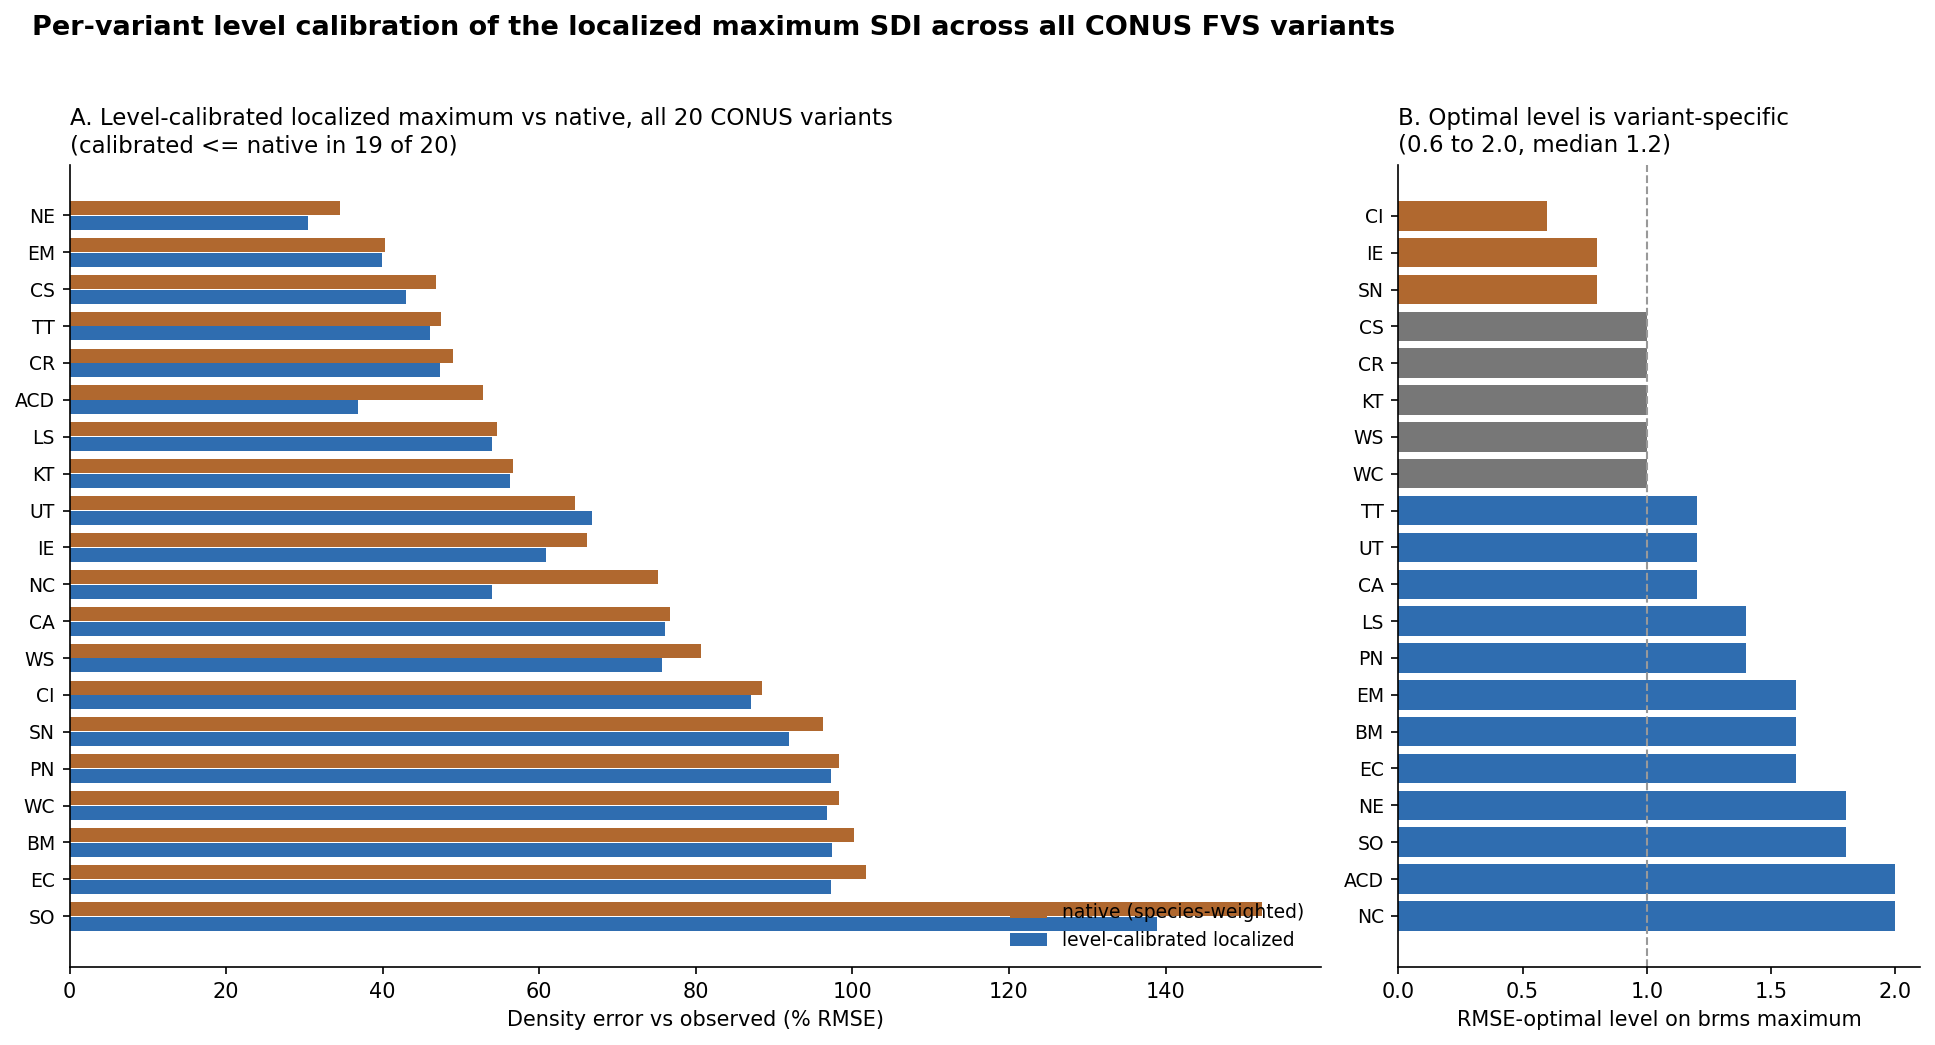
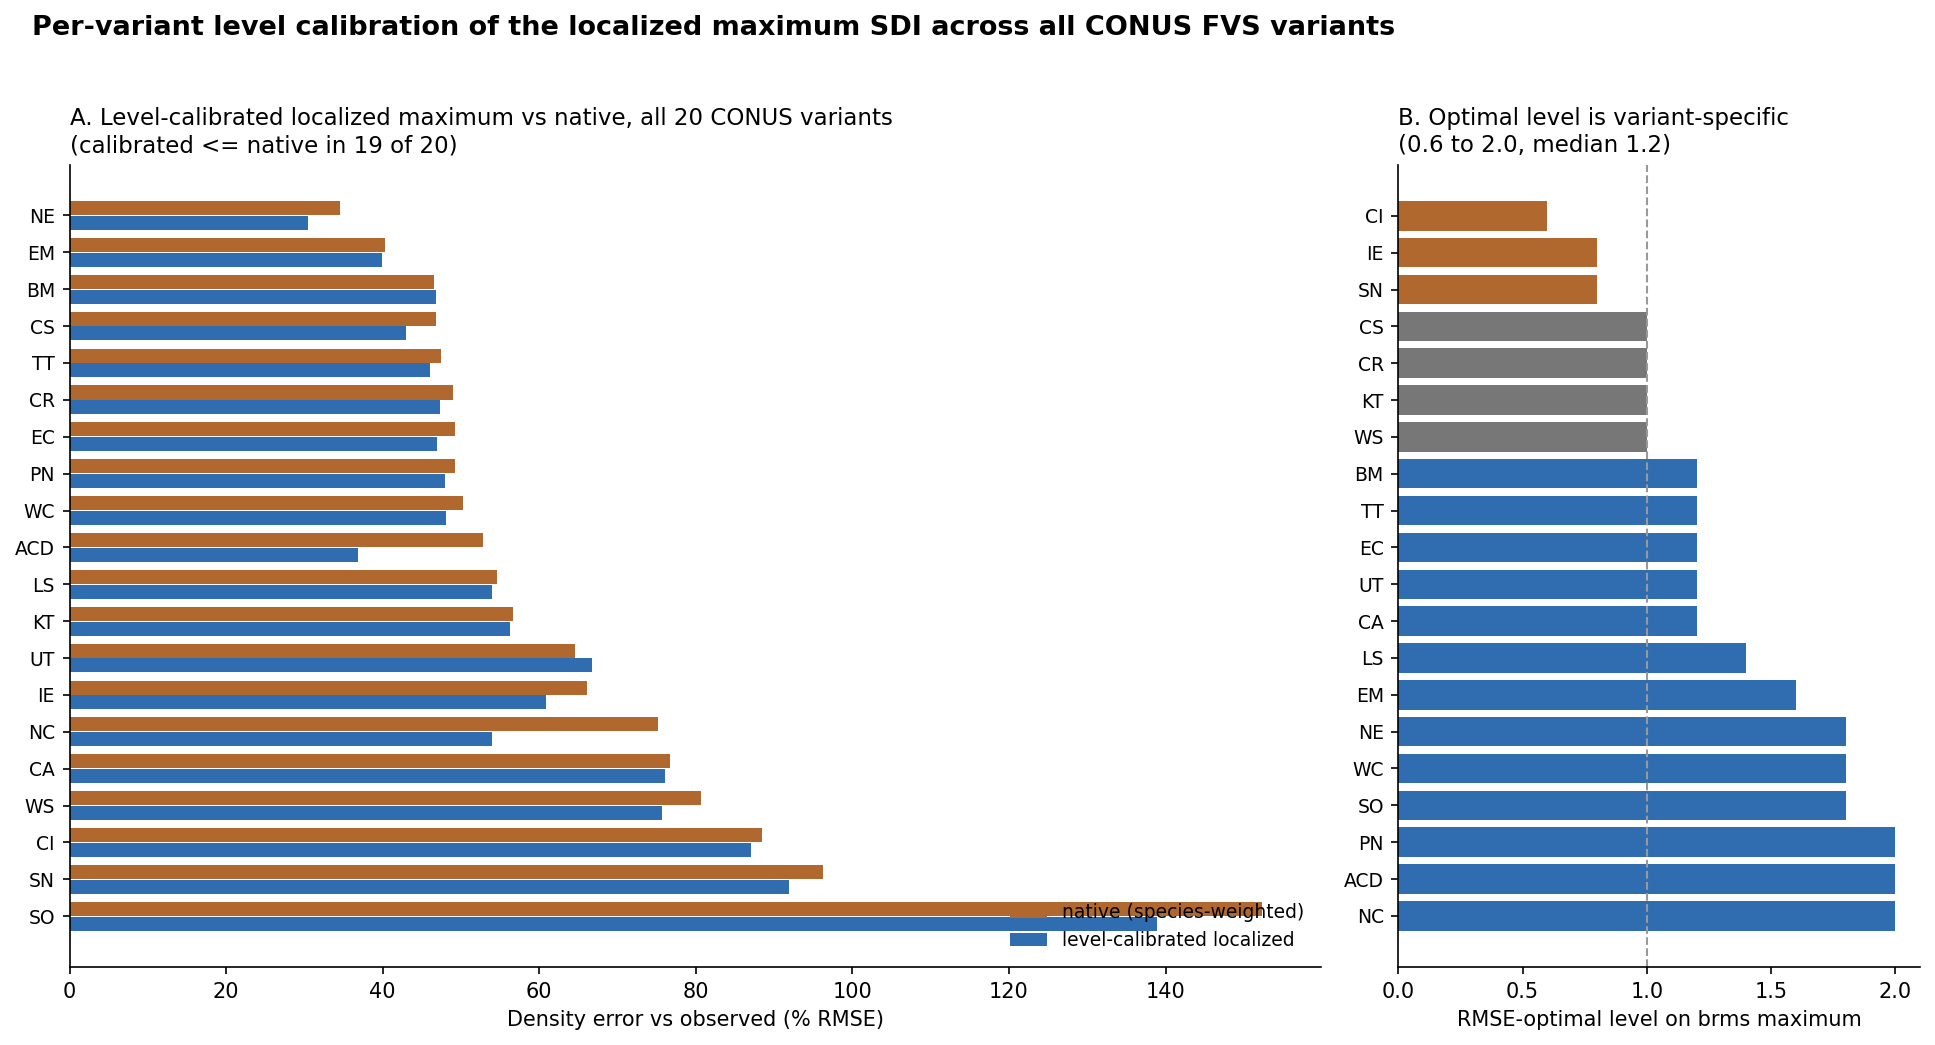
Refine all-variant analysis: clean OR/WA samples, level-vs-bias model, UT diagnosis
Fixed hardcoded sample seed: OR/WA variants (BM/EC/PN/WC) had a pathological draw
inflating RMSE to ~98%; clean multi-sample values are ~47-50% and near-neutral. Conclusion
holds: calibrated <= native in 19/20, level 0.6-2.0 (median 1.2). Added level-vs-native-bias
model (r=-0.35: the level compensates for native mortality) and the Utah exception (weakest
self-thinning signal, drought-governed). Updated report, deck, doc, figures.

diff --git a/calibration/sdimax/var_scale_diag.py b/calibration/sdimax/var_scale_diag.py
@@ -30,7 +30,7 @@ key2sdi=dict(zip(b.ID.astype(str),b["SDImax.mean"]))
 rem=plot.dropna(subset=["PREV_PLT_CN"]).copy(); rem["PREV_PLT_CN"]=rem.PREV_PLT_CN.astype("int64")
 rem["interval"]=rem.apply(lambda r:r.MEASYEAR-yr.get(r.PREV_PLT_CN,np.nan),axis=1)
 rem=rem[(rem.interval>=5)&(rem.interval<=15)]; rem=rem[rem.plot_key.map(lambda k:k in key2sdi)]
-rem=rem.sample(n=min(110,len(rem)),random_state=5)
+rem=rem.sample(n=min(int(_os.environ.get("NSAMP","110")),len(rem)),random_state=int(_os.environ.get("SEED","5")))
 tr1=G.load_fia_trees(VAR,rem.PREV_PLT_CN.tolist(),Path(FIA)); tr2=G.load_fia_trees(VAR,rem.CN.astype("int64").tolist(),Path(FIA))
 def metr(df):
     d=df[(df.DIA>0)&(df.TPA_UNADJ>0)]

diff --git a/calibration/sdimax/CONUS_MAXSDI_TECHNICAL_REPORT.md b/calibration/sdimax/CONUS_MAXSDI_TECHNICAL_REPORT.md
@@ -270,6 +270,32 @@ variants. Left: native versus level-calibrated density error; calibrated is at o
 20. Right: the RMSE-optimal level is variant-specific, from 0.6 to 2.0 (median 1.2), most variants
 needing the brms maximum scaled up.*
 
+**The required level is partly predictable from each variant's native bias, which is the consistency
+story made quantitative.** The optimal level tracks how much a variant's native configuration over- or
+under-thins (correlation about -0.35; level roughly 1.1 minus 0.016 times the native density bias).
+Variants whose native mortality over-thins (a negative density bias, for example the Klamath Mountains,
+Acadian, and Northeast) need the localized maximum scaled up, because a higher ceiling reduces the
+over-thinning; the two variants that over-retain (Central Rockies and Utah, the only positive biases)
+sit near or below the raw level. So the level is not arbitrary, it compensates for the variant's
+mortality calibration, which is exactly why it must be estimated jointly with mortality and why a
+unified fit removes the need for a per-variant scalar.
+
+![Optimal level tracks native bias](level_vs_bias.png)
+
+*Figure. The level each variant needs tracks its native density bias: over-thinning variants need the
+maximum scaled up. This is why the level must be calibrated with the mortality response, not set
+globally.*
+
+**Two honest qualifications.** First, the engine effect is concentrated, not universal. Where the
+ceiling does not strongly bind over a remeasurement interval, the localized maximum is roughly neutral;
+the Pacific Northwest and the other Oregon and Washington variants, on a clean multi-sample basis, show
+native and calibrated density error within about a point (around 47 to 50 percent RMSE). The clear
+engine gains are in variants whose native level is most off (Klamath Mountains, Acadian, Northeast,
+Southern Oregon). Second, Utah is the genuine exception: it has the weakest self-thinning signal of any
+region (deviance explained 0.04) and its native configuration already under-thins, so density there is
+governed by drought and disturbance rather than the density ceiling, and no level of the localized
+maximum improves it. The exception is therefore mechanistic and expected, not a failure of the surface.
+
 The operational lesson for the FVS staff is therefore precise and constructive. Localizing the maximum
 is the right direction, and the FIA-derived surface carries useful spatial structure even where the raw
 drop-in degrades a native variant. What must travel with it is a level calibration so the maximum is